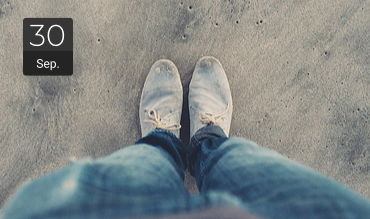
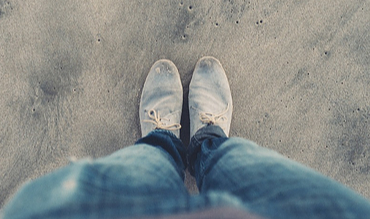
Lesson 6: 1. Replace three pictures in the "img" folder; 2. Add two new pictures to the "img" folder; 3. Add html-code for the "recent_posts" section.

Changed region(s): [[0.0595, 0.0822, 0.2081, 0.3562]]

diff --git a/index.html b/index.html
@@ -243,7 +243,74 @@
                 </div>
             </div>
         </section>
-        <section class="recent_posts wrapper_center"></section>
+        <section class="recent_posts wrapper_center">
+            <h2 class="recent_posts__title">Recent Posts.</h2>
+            <p class="recent_posts__paragraph">Investigationes demonstraverunt lectores legere me lius quod ii legunt saepius. Claritas est etiam processus dynamicus, qui sequitur mutationem consuetudium.</p>
+            <div class="recent_posts__cards_box">
+                <div class="recent_posts__cards_box__card">
+                    <div class="recent_posts__cards_box__card__spec">
+                        <img class="recent_posts__cards_box__card__spec__img" src="img/Item_header_recent_posts_1.jpg" alt="pic_1">
+                        <div class="recent_posts__cards_box__card__spec__overlay">
+                            <div class="recent_posts__cards_box__card__spec__overlay__calendar">
+                                <div class="recent_posts__cards_box__card__spec__overlay__calendar__number">
+                                    <p class="recent_posts__cards_box__card__spec__overlay__calendar__number__text">30</p>
+                                </div>
+                                <div class="recent_posts__cards_box__card__spec__overlay__calendar__month">
+                                    <p class="recent_posts__cards_box__card__spec__overlay__calendar__month__text">Sep.</p>
+                                </div>
+                            </div>
+                        </div>
+                    </div>
+                    <h3 class="recent_posts__cards_box__card__title_mini">Lorem ipsum dolor sit amet</h3>
+                    <p class="recent_posts__cards_box__card__paragraph">Claritas est etiam processus dynamicus, qui sequitur mutationem consuetudium.</p>
+                    <p class="recent_posts__cards_box__card__know_more">Read More</p>
+                </div>
+                <div class="recent_posts__cards_box__card">
+                    <div class="recent_posts__cards_box__card__spec">
+                        <img class="recent_posts__cards_box__card__spec__img" src="img/Item_header_recent_posts_2_v_2.jpg" alt="pic_2">
+                        <div class="recent_posts__cards_box__card__spec__overlay">
+                            <div class="recent_posts__cards_box__card__spec__overlay__calendar">
+                                <div class="recent_posts__cards_box__card__spec__overlay__calendar__number">
+                                    <p class="recent_posts__cards_box__card__spec__overlay__calendar__number__text">30</p>
+                                </div>
+                                <div class="recent_posts__cards_box__card__spec__overlay__calendar__month">
+                                    <p class="recent_posts__cards_box__card__spec__overlay__calendar__month__text">Sep.</p>
+                                </div>
+                            </div>
+                        </div>
+                    </div>
+                    <h3 class="recent_posts__cards_box__card__title_mini">Lorem ipsum dolor sit amet</h3>
+                    <p class="recent_posts__cards_box__card__paragraph">Claritas est etiam processus dynamicus, qui sequitur mutationem consuetudium.</p>
+                    <p class="recent_posts__cards_box__card__know_more">Read More</p>
+                </div>
+                <div class="recent_posts__cards_box__card">
+                    <div class="recent_posts__cards_box__card__spec">
+                        <img class="recent_posts__cards_box__card__spec__img" src="img/Item_header_recent_posts_3.jpg" alt="pic_3">
+                        <div class="recent_posts__cards_box__card__spec__overlay">
+                            <div class="recent_posts__cards_box__card__spec__overlay__calendar">
+                                <div class="recent_posts__cards_box__card__spec__overlay__calendar__number">
+                                    <p class="recent_posts__cards_box__card__spec__overlay__calendar__number__text">30</p>
+                                </div>
+                                <div class="recent_posts__cards_box__card__spec__overlay__calendar__month">
+                                    <p class="recent_posts__cards_box__card__spec__overlay__calendar__month__text">Sep.</p>
+                                </div>
+                            </div>
+                        </div>
+                    </div>
+                    <h3 class="recent_posts__cards_box__card__title_mini">Lorem ipsum dolor sit amet</h3>
+                    <p class="recent_posts__cards_box__card__paragraph">Claritas est etiam processus dynamicus, qui sequitur mutationem consuetudium.</p>
+                    <p class="recent_posts__cards_box__card__know_more">Read More</p>
+                </div>
+            </div>
+            <div class="recent_posts__navi">
+                <svg class="recent_posts__navi__left" width="22" height="22" viewBox="0 0 22 22" xmlns="http://www.w3.org/2000/svg">
+                    <path d="M7.58 10.4298L12.35 5.65978C12.64 5.36978 13.11 5.36978 13.4 5.65978C13.68 5.94978 13.68 6.41978 13.4 6.69978L9.14 10.9598L13.4 15.2098C13.68 15.4998 13.68 15.9598 13.4 16.2498C13.11 16.5398 12.64 16.5398 12.35 16.2498L7.58 11.4798C7.44 11.3298 7.37 11.1498 7.37 10.9598C7.37 10.7698 7.44 10.5798 7.58 10.4298ZM10.99 0.0297852C17.05 0.0297852 21.97 4.93979 21.97 11.0098C21.97 17.0798 17.05 21.9898 10.99 21.9898C4.92 21.9898 0 17.0798 0 11.0098C0 4.93979 4.92 0.0297852 10.99 0.0297852ZM10.99 20.5198C16.23 20.5198 20.5 16.2498 20.5 11.0098C20.5 5.76979 16.23 1.49979 10.99 1.49979C5.74 1.49979 1.47 5.76979 1.47 11.0098C1.47 16.2498 5.74 20.5198 10.99 20.5198Z"/>
+                </svg>
+                <svg class="recent_posts__navi__right" width="22" height="22" viewBox="0 0 22 22" xmlns="http://www.w3.org/2000/svg">
+                    <path d="M14.42 10.4298L9.64003 5.65978C9.36003 5.36978 8.89003 5.36978 8.60003 5.65978C8.32003 5.94978 8.32003 6.41978 8.60003 6.69978L12.86 10.9598L8.60003 15.2098C8.32003 15.4998 8.32003 15.9598 8.60003 16.2498C8.89003 16.5398 9.36003 16.5398 9.64003 16.2498L14.42 11.4798C14.56 11.3298 14.63 11.1498 14.63 10.9598C14.63 10.7698 14.56 10.5798 14.42 10.4298ZM11.01 0.0297852C4.95003 0.0297852 0.0300293 4.93979 0.0300293 11.0098C0.0300293 17.0798 4.95003 21.9898 11.01 21.9898C17.08 21.9898 22 17.0798 22 11.0098C22 4.93979 17.08 0.0297852 11.01 0.0297852ZM11.01 20.5198C5.77003 20.5198 1.50003 16.2498 1.50003 11.0098C1.50003 5.76979 5.77003 1.49979 11.01 1.49979C16.26 1.49979 20.52 5.76979 20.52 11.0098C20.52 16.2498 16.26 20.5198 11.01 20.5198Z"/>
+                </svg>
+            </div>
+        </section>
         <section class="partners wrapper_center">
             <div class="partners__box">
                 <img class="partners__box__img" height="127px" src="img/logo_item1_partners_barber.png" alt="THE BARBER">
